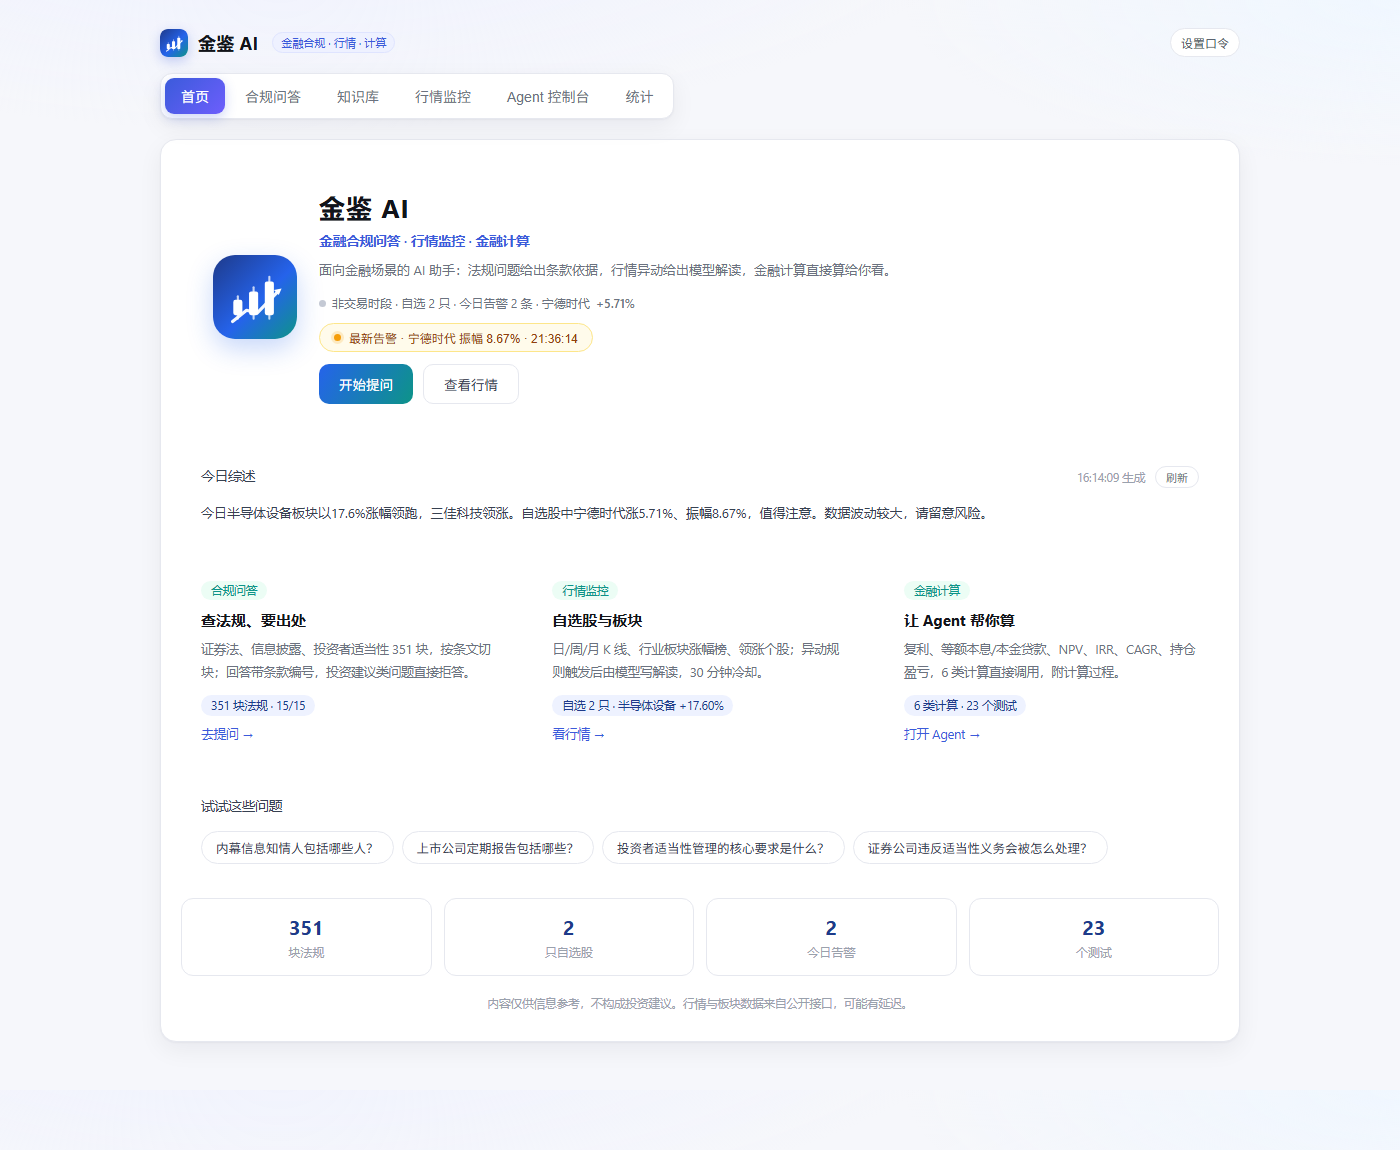
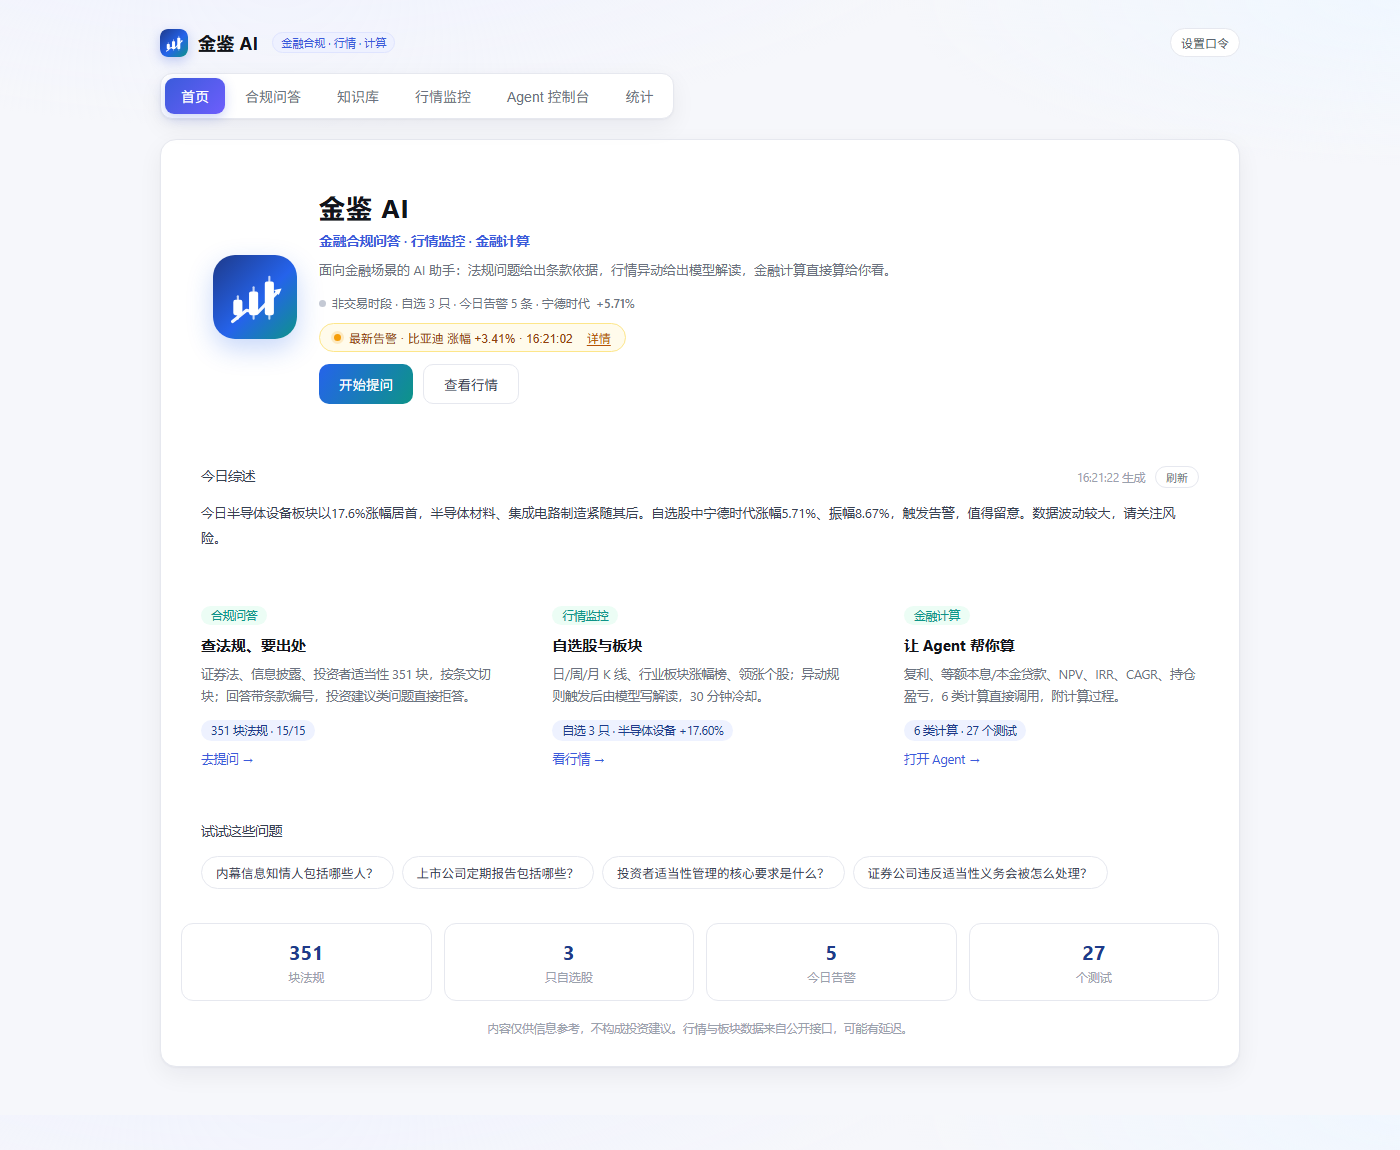
feat: 首页告警详情展开 + 飞书/钉钉 Webhook 推送

diff --git a/frontend/src/views/HomeView.jsx b/frontend/src/views/HomeView.jsx
@@ -47,6 +47,7 @@ export default function HomeView({ onNavigate, onAsk }) {
   const [liveError, setLiveError] = useState('')
   const [brief, setBrief] = useState(null)
   const [briefLoading, setBriefLoading] = useState(false)
+  const [showAlert, setShowAlert] = useState(false)
 
   useEffect(() => {
     let alive = true
@@ -95,7 +96,7 @@ export default function HomeView({ onNavigate, onAsk }) {
     monitor: live?.topSector
       ? `自选 ${live.watchCount} 只 · ${live.topSector.name} ${fmtPct(live.topSector.change_pct)}`
       : 'K 线 · 板块 · 异动解读',
-    agent: '6 类计算 · 23 个测试',
+    agent: '6 类计算 · 27 个测试',
   }
 
   return (
@@ -128,10 +129,21 @@ export default function HomeView({ onNavigate, onAsk }) {
             <div className="home-live muted">设置访问口令后显示实时数据</div>
           )}
           {live?.latestAlert && (
-            <button className="home-alert" onClick={() => onNavigate('monitor')}>
-              <span className="alert-dot" /> 最新告警 · {live.latestAlert.name}{' '}
-              {live.latestAlert.title} · {fmtTime(live.latestAlert.created_at)}
-            </button>
+            <>
+              <button className="home-alert" onClick={() => setShowAlert((v) => !v)}>
+                <span className="alert-dot" /> 最新告警 · {live.latestAlert.name}{' '}
+                {live.latestAlert.title} · {fmtTime(live.latestAlert.created_at)}
+                <span className="alert-toggle">{showAlert ? '收起' : '详情'}</span>
+              </button>
+              {showAlert && (
+                <div className="home-alert-detail">
+                  <p>{live.latestAlert.analysis || '这条告警没有解读。'}</p>
+                  <button className="alert-link" onClick={() => onNavigate('monitor')}>
+                    去监控页 →
+                  </button>
+                </div>
+              )}
+            </>
           )}
           <div className="home-actions">
             <button className="home-cta" onClick={() => onNavigate('ask')}>
@@ -187,7 +199,7 @@ export default function HomeView({ onNavigate, onAsk }) {
           [String(live?.finance?.chunk_count ?? 351), '块法规'],
           [live ? String(live.watchCount) : '—', '只自选股'],
           [live ? String(live.alerts) : '—', '今日告警'],
-          ['23', '个测试'],
+          ['27', '个测试'],
         ].map(([num, label]) => (
           <div key={label} className="home-stat">
             <b>{num}</b>

diff --git a/frontend/src/styles.css b/frontend/src/styles.css
@@ -582,3 +582,10 @@ nav button.active {
 .brief-refresh { margin-left: 10px; border: 1px solid var(--line); background: #fff;
   border-radius: 999px; font-size: 11px; padding: 2px 10px; cursor: pointer; color: #6b7280; }
 .brief-refresh:disabled { opacity: .5; cursor: default; }
+
+.alert-toggle { margin-left: 6px; color: #b45309; text-decoration: underline; text-underline-offset: 2px; }
+.home-alert-detail { border: 1px solid #fde68a; background: #fffdf5; border-radius: 12px;
+  padding: 10px 14px; margin: -4px 0 12px; max-width: 760px; }
+.home-alert-detail p { margin: 0 0 6px; font-size: 12.5px; line-height: 1.8; color: #4b5563; }
+.alert-link { border: 0; background: transparent; color: #b45309; font-size: 12px;
+  cursor: pointer; padding: 0; }

diff --git a/build/notify.py b/build/notify.py
@@ -1,0 +1,60 @@
+#!/usr/bin/env python3
+# -*- coding: utf-8 -*-
+"""告警 Webhook 推送：支持飞书、钉钉/企微、通用 JSON。
+
+配置：
+    ALERT_WEBHOOK_URL=https://open.feishu.cn/open-apis/bot/v2/hook/xxx
+    ALERT_WEBHOOK_TYPE=auto | feishu | dingtalk | generic
+"""
+import json
+import os
+import urllib.request
+
+URL = os.environ.get("ALERT_WEBHOOK_URL", "")
+TYPE = os.environ.get("ALERT_WEBHOOK_TYPE", "auto")
+OPENER = urllib.request.build_opener(urllib.request.ProxyHandler({}))
+
+
+def kind():
+    if TYPE in ("feishu", "dingtalk", "generic"):
+        return TYPE
+    u = URL.lower()
+    if "feishu" in u or "larksuite" in u:
+        return "feishu"
+    if "dingtalk" in u or "wecom" in u or "qyapi.weixin" in u:
+        return "dingtalk"
+    return "generic"
+
+
+def text_of(alert):
+    pct = float(alert.get("change_pct") or 0)
+    return (f"【异动告警】{alert.get('name', '')}（{alert.get('symbol', '')}）"
+            f"{alert.get('title', '')}\n"
+            f"现价 {alert.get('price', '-')}，涨跌幅 {pct:+.2f}%\n"
+            f"{(alert.get('analysis') or '')[:120]}")
+
+
+def payload(alert):
+    """按平台生成消息体。"""
+    body_text = text_of(alert)
+    k = kind()
+    if k == "feishu":
+        return {"msg_type": "text", "content": {"text": body_text}}, k
+    if k == "dingtalk":
+        return {"msgtype": "text", "text": {"content": body_text}}, k
+    return {"text": body_text, "alert": alert}, k
+
+
+def send(alert):
+    """推送一条告警；未配置或失败都返回结果，不抛异常。"""
+    if not URL:
+        return {"sent": False, "reason": "未配置 ALERT_WEBHOOK_URL"}
+    body, k = payload(alert)
+    req = urllib.request.Request(
+        URL, data=json.dumps(body, ensure_ascii=False).encode("utf-8"),
+        headers={"Content-Type": "application/json"}, method="POST")
+    try:
+        with OPENER.open(req, timeout=6) as resp:
+            return {"sent": True, "type": k, "status": resp.status}
+    except Exception as exc:
+        return {"sent": False, "type": k, "error": f"{type(exc).__name__}: {exc}"}

diff --git a/build/tests/test_core.py b/build/tests/test_core.py
@@ -16,6 +16,7 @@ import app as app_module
 import brief
 import finance_tools
 import market
+import notify
 import monitor
 import web_tools
 import kb_index
@@ -213,3 +214,34 @@ def test_brief_skips_llm_without_watch(monkeypatch):
     data = brief.generate()
     assert "还没有自选股" in data["text"]
     assert calls["n"] == 0
+
+
+# ---------- 告警推送 ----------
+def test_notify_payload_feishu(monkeypatch):
+    monkeypatch.setattr(notify, "TYPE", "feishu")
+    body, kind = notify.payload({"name": "宁德时代", "symbol": "300750", "title": "涨幅 +5%",
+                                  "price": 215.89, "change_pct": 5.71, "analysis": "解读"})
+    assert kind == "feishu"
+    assert body["msg_type"] == "text"
+    assert "宁德时代" in body["content"]["text"]
+
+
+def test_notify_payload_dingtalk(monkeypatch):
+    monkeypatch.setattr(notify, "TYPE", "dingtalk")
+    body, kind = notify.payload({"name": "测试", "symbol": "000000", "title": "测试",
+                                  "price": 1.0, "change_pct": 3.0, "analysis": ""})
+    assert kind == "dingtalk"
+    assert "测试" in body["text"]["content"]
+
+
+def test_notify_auto_detect(monkeypatch):
+    monkeypatch.setattr(notify, "TYPE", "auto")
+    monkeypatch.setattr(notify, "URL", "https://open.feishu.cn/open-apis/bot/v2/hook/x")
+    assert notify.kind() == "feishu"
+    monkeypatch.setattr(notify, "URL", "https://oapi.dingtalk.com/robot/send?access_token=x")
+    assert notify.kind() == "dingtalk"
+
+
+def test_notify_unconfigured(monkeypatch):
+    monkeypatch.setattr(notify, "URL", "")
+    assert notify.send({"name": "x"})["sent"] is False

diff --git a/build/monitor.py b/build/monitor.py
@@ -12,6 +12,7 @@ from zoneinfo import ZoneInfo
 
 import llm
 import market
+import notify
 import watch_store
 
 CN = ZoneInfo("Asia/Shanghai")
@@ -82,9 +83,14 @@ def scan():
             if now - watch_store.last_alert_at(q["symbol"], rule["key"]) < COOLDOWN:
                 continue
             analysis = analyze(q, rule["label"])
-            watch_store.add_alert(q["symbol"], q["name"], rule["key"],
-                                  rule["title"](q), q["price"], q["change_pct"], analysis)
+            alert_id = watch_store.add_alert(q["symbol"], q["name"], rule["key"],
+                                             rule["title"](q), q["price"], q["change_pct"], analysis)
             created += 1
+            notify.send({
+                "id": alert_id, "symbol": q["symbol"], "name": q["name"],
+                "title": rule["title"](q), "price": q["price"],
+                "change_pct": q["change_pct"], "analysis": analysis,
+            })
     STATE["last_scan"] = time.time()
     STATE["last_count"] = created
     return created

diff --git a/build/app.py b/build/app.py
@@ -22,6 +22,7 @@ import kb_index
 import kb_store
 import market
 import monitor
+import notify
 import watch_store
 import query_rewrite
 import rerank
@@ -502,6 +503,23 @@ def monitor_status(request: Request):
 def get_brief(request: Request, force: int = 0):
     guard(request)
     return brief.generate(force=bool(force))
+
+
+@app.get("/notify/status")
+def notify_status(request: Request):
+    guard(request)
+    return {"configured": bool(notify.URL), "type": notify.kind() if notify.URL else None}
+
+
+@app.post("/notify/test")
+def notify_test(request: Request):
+    guard(request)
+    result = notify.send({
+        "name": "测试股票", "symbol": "000000", "title": "测试告警",
+        "price": 10.0, "change_pct": 3.5,
+        "analysis": "这是一条测试推送，收到即表示 Webhook 配置正确。",
+    })
+    return result
 
 
 @app.get("/metrics")

diff --git a/build/README.md b/build/README.md
@@ -22,6 +22,7 @@
 - **自选股监控**：自选股行情 + 日/周/月 K 线 + 行业板块涨幅榜与领涨个股；交易时段每 5 分钟轮询，规则触发后调用模型写解读并生成告警
 - **联网检索**：问答可选「联网」，先搜索再抓网页正文回答，来源显示为链接；Agent 新增 `web_search` / `fetch_url` 两个工具
 - **今日综述**：首页聚合板块/自选/告警，模型生成 120 字简报；10 分钟缓存，没有自选股时不调模型
+- **Webhook 推送**：新告警可推到飞书/钉钉/企微，自动识别平台；`/notify/test` 可先测通
 - **MCP Server**：把检索与计算封装为 MCP 工具，Claude Desktop / Cursor 等客户端可直接调用
 
 ## 知识库
@@ -162,6 +163,23 @@ AGENT_WORKSPACE=/data/agent_workspace
 ![监控页](../docs/monitor-preview.png)
 
 行情接口免 key，但为非官方接口；页面明确标注「不构成投资建议」。
+
+## 告警推送
+
+新告警会 POST 到 `ALERT_WEBHOOK_URL`，自动识别平台：
+
+- 飞书：`{"msg_type":"text","content":{"text":"..."}}`
+- 钉钉 / 企微：`{"msgtype":"text","text":{"content":"..."}}`
+- 其他：通用 `{"text":"..."}`
+
+配置：
+
+```bash
+ALERT_WEBHOOK_URL=https://open.feishu.cn/open-apis/bot/v2/hook/xxx
+ALERT_WEBHOOK_TYPE=auto   # auto / feishu / dingtalk / generic
+```
+
+推送失败只记录结果，不影响告警入库；配好后可先 `POST /notify/test` 验证。
 
 ## 技术栈
 
@@ -315,6 +333,8 @@ python step8_embed.py
 | GET | `/sectors` | 行业板块涨幅榜 |
 | GET | `/sectors/{code}/stocks` | 板块领涨个股 |
 | GET | `/brief` | 首页今日综述（缓存 10 分钟） |
+| GET | `/notify/status` | Webhook 是否配置 |
+| POST | `/notify/test` | 发送一条测试推送 |
 
 `/ask` 与 `/ask/stream` 额外支持 `web: true`，开启联网检索。
 | GET | `/stats` | 汇总统计 |
